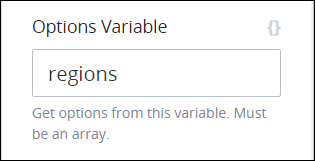
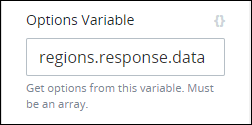
GitBook: [processmaker] 333 pages and one asset modified

diff --git a/designing-processes/design-forms/screens-builder/control-descriptions/select-list-control-settings.md b/designing-processes/design-forms/screens-builder/control-descriptions/select-list-control-settings.md
@@ -581,7 +581,9 @@ Follow these steps to create the ProcessMaker Data Connector that gets a JSON ar
 29. To test if the Endpoint and its authentication application key function as intended, click the **Config** sub-tab to change the `{{country}}` in this Endpoint's **URL** setting to a real two-letter ISO country code such as `US`.
 30. Click the **Test** sub-tab in the **Endpoints** tab to verify that the Endpoint functions as intended. ![](../../../../.gitbook/assets/dependent-fields-example-test-sub-tab-get-regions-data-connector.png) 
 31. Click **Run**. If configured correctly, the **Test** tab displays the Endpoint response.
-32. Notice which element in each JSON object within the Endpoint response contains the name of the region: in this test, the states and provinces within the United States. Look at the first JSON object. Notice that the JSON key name called `name` in the JSON object contains the name of the state; the value of the JSON key name `name` displays as each option in the Select List control from which a region is selected.
+32. Notice the following:
+    * **`data`:** Notice that the JSON array containing the response is called `data`. The name of this JSON array is relevant when configuring the Select List control from which to select the country's region.
+    * **`name`:** Notice which element in each JSON object within the Endpoint response contains the name of the region: in this test, the states and provinces within the United States. Look at the first JSON object. Notice that the JSON key name called `name` in the JSON object contains the name of the state; the value of the JSON key name `name` displays as each option in the Select List control from which a region is selected.
 33. Click the **Config** sub-tab to change `US` in this Endpoint's **URL** setting to `{{country}}`, and then click **Save**.
 
 ### Configure the Select List Control's Data Source That Gets the List of Countries
@@ -622,7 +624,10 @@ Follow these steps to configure the Select List control's data source to get the
 4. [Configure the settings](select-list-control-settings.md#inspector-settings) for the Select List control. This procedure only discusses how to configure this Select List control's data source settings.
 5. Click the **Data Source** panel.
 6. From the **Data Source** drop-down menu, select **Request Data**. ![](../../../../.gitbook/assets/dependent-fields-example-data-source-setting-2-select-list-control.png) 
-7. In the **Options Variable** setting, enter `regions` since the Watcher outputs to Request data the JSON array it receives from the ProcessMaker Data Connector that gets the list of regions for the selected country using that Request variable name. ![](../../../../.gitbook/assets/dependent-fields-example-options-variable-setting-select-list-control.png) 
+7. In the **Options Variable** setting, enter `regions.response.data` that uses [JSON dot notation](../../../../json-the-foundation-of-request-data/what-is-json.md#json-dot-notation) for the following reasons:
+   * The Watcher outputs to Request data it receives from the ProcessMaker Data Connector to the Request variable called `regions`.
+   * The ProcessMaker Data Connector receives its response from the API resource in a JSON object element called `response` by default.
+   * The JSON array nested in the `response` JSON object is called `data` as shown [when testing the ProcessMaker Data Connector's Endpoint to get a list of regions](select-list-control-settings.md#create-the-processmaker-data-connector-that-gets-a-json-array-of-regions-in-its-response-based-on-a-selected-country). ![](../../../../.gitbook/assets/dependent-fields-example-options-variable-setting-select-list-control.png) 
 8. In the **Option Label Shown** setting, enter `name`. [When testing the ProcessMaker Data Connector that gets the list of a country's regions](select-list-control-settings.md#create-the-processmaker-data-connector-that-gets-a-json-array-of-regions-in-its-response-based-on-a-selected-country), the key name called `name` contains the region in each JSON object of the JSON array the ProcessMaker Data Connector returns to the Watcher. The Watcher then outputs this JSON array to the Request variable `regions` from which this Select List control's options derive. ![](../../../../.gitbook/assets/dependent-fields-example-option-label-shown-setting-select-list-control.png) 
 9. From the **Show Control As** drop-down menu, select whether to show this Select List control's options as a drop-down menu or as a group of checkboxes. This example uses the **Dropdown/Multiselect** option. ![](../../../../.gitbook/assets/show-control-as-select-list-control-screen-builder-designer.png) 
 10. Select the **Allow Multiple Selections** option if you would like the Request participant to select more than one country region. This example does not use this setting. ![](../../../../.gitbook/assets/select-list-control-allow-multiple-selections-screen-builder-processes.png)
